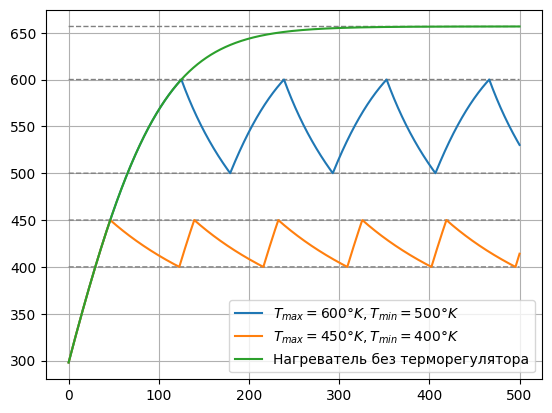
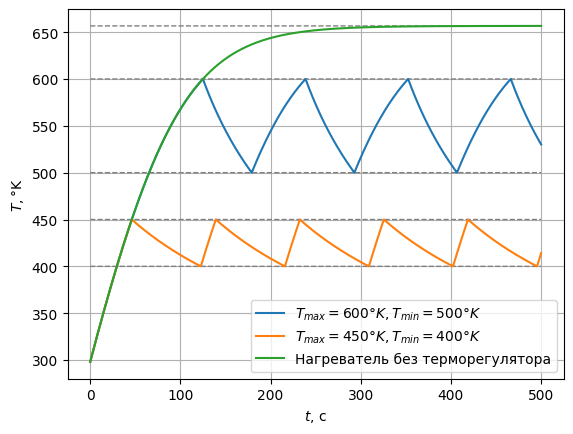
fix figures (and again)

Changed region(s): [[0.0, 0.0, 1.0, 0.9879]]

diff --git a/main.py b/main.py
@@ -252,6 +252,8 @@ if __name__ == '__main__':
     T_max3 = Tmax
     T_min3 = Tmin
 
+    plt.xlabel(r'$t$, с')
+    plt.ylabel(r'$T, \degree$K')
 
     plt.plot(x_list2, [T_max2 for i in range(len(y_list2))], '--', linewidth=1, color='grey')
     plt.plot(x_list2, [T_min2 for i in range(len(y_list2))], '--', linewidth=1, color='grey')
